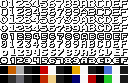
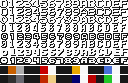
save font for update i guess

Changed region(s): [[0.0, 0.2892, 0.9688, 0.3855], [0.9688, 0.2892, 1.0, 0.3614]]

diff --git a/docs/index_next.html b/docs/index_next.html
@@ -56,13 +56,13 @@
 							<tr>
 								<th rowspan="2">Emulator, Everdrive, SNES Classic</th>
 								<td>
-									<a href="https://drive.google.com/open?id=1LMYCgG-ywFGs09rIoPju8giV1BddV_i6">
+									<a href="https://drive.google.com/open?id=13B1NE2TWTMdhGsbpUSbEyjOXC_PikGO9">
 									Custom HUD
 								</td>
 							</tr>
 							<tr>
 								<td>
-									<a href="https://drive.google.com/open?id=1kB3pSCcsaV_dEDdjkl4uMWufceOz6Qmq">
+									<a href="https://drive.google.com/open?id=1sVoX7eYpN5nagJRj1aQXNaom6vZsZyZF">
 									Vanilla HUD
 								</td>
 							</tr>
@@ -70,13 +70,13 @@
 							<tr>
 								<th rowspan="2">SD2SNES</th>
 								<td>
-									<a href="https://drive.google.com/open?id=1OrsJcAfTx-_3V-kIT13k9D7EuVJgWEr4">
+									<a href="https://drive.google.com/open?id=1Nu30Z2DcdlQ0k4ypMewA3uZteD8_FcPb">
 									Custom HUD
 								</td>
 							</tr>
 							<tr>
 								<td>
-									<a href="https://drive.google.com/open?id=1CH3bWvbOhxaGSl5wi8HaQKCOTxh9eN0R">
+									<a href="https://drive.google.com/open?id=1yfxYWQmV2P9zElZWrH501vs65XC7WU0k">
 									Vanilla HUD
 								</td>
 							</tr>
@@ -348,7 +348,7 @@
 						<dt>Keys</dt>
 						<dd>0–9</dt>
 						<dt>Big keys</dt>
-						<dd>Toggle big keys for each dungeon</dd>
+						<dd>Toggle big keys for each dungeon.</dd>
 					</dl>
 
 					<h3 id="menuGameState">Game state</h3>
@@ -434,7 +434,7 @@
 							</dl>
 						</dd>
 						<dt>Switch color</dt>
-						<dd>Toggle status of pegs and switches in dungeons</dd>
+						<dd>Toggle status of pegs and switches in dungeons.</dd>
 
 					</dl>
 
@@ -446,7 +446,7 @@
 								<dt>Unarmed</dt>
 								<dd>0; Link's default state</dd>
 								<dt>Armed</dt>
-								<dd>1; armed as if waterwalk were set up by dashing from a pit.</dd>
+								<dd>1; armed as if waterwalk were set up by dashing from a pit</dd>
 								<dt>Armed (2)</dt>
 								<dd>2; difficult (if not impossible) to obtain intermediate state</dd>
 								<dt>Deathholed</dt>
@@ -713,7 +713,11 @@
 			<div class="row">
 				<div class="col-lg-8 mx-auto">
 					<h2>Changelog</h2>
-					<h3><a href="https://github.com/spannerisms/lttphack/releases/tag/12.0.0">v12</a> <span class="releaseDate">?? Oct 2019</span></h3>
+					<h3><a href="https://github.com/spannerisms/lttphack/releases/tag/12.0.0">v12</a> <span class="releaseDate">24 Oct 2019</span></h3>
+					<ul>
+						<li>Updated the Emerald font.</li>
+					</ul>
+					<h3><a href="https://github.com/spannerisms/lttphack/releases/tag/12.0.0">v12</a> <span class="releaseDate">24 Oct 2019</span></h3>
 					<ul>
 						<li>Gameplay
 							<ul>
@@ -746,7 +750,7 @@
 						</li>
 						<li>Added sound effects to the practice menu to help indicate responsiveness.</li>
 						<li>Updated the Practice menu font a little.</li>
-						<li>Removed the Japanese text for "Pendants" and "Crystals", mostly to make room for new characters.</li>
+						<li>Removed the Japanese text for "Pendants" and "Crystals", mostly to make room for new graphics.</li>
 						<li>Removed the red gloves and put boots back.</li>
 						<li>Lag changes:
 							<ul>
